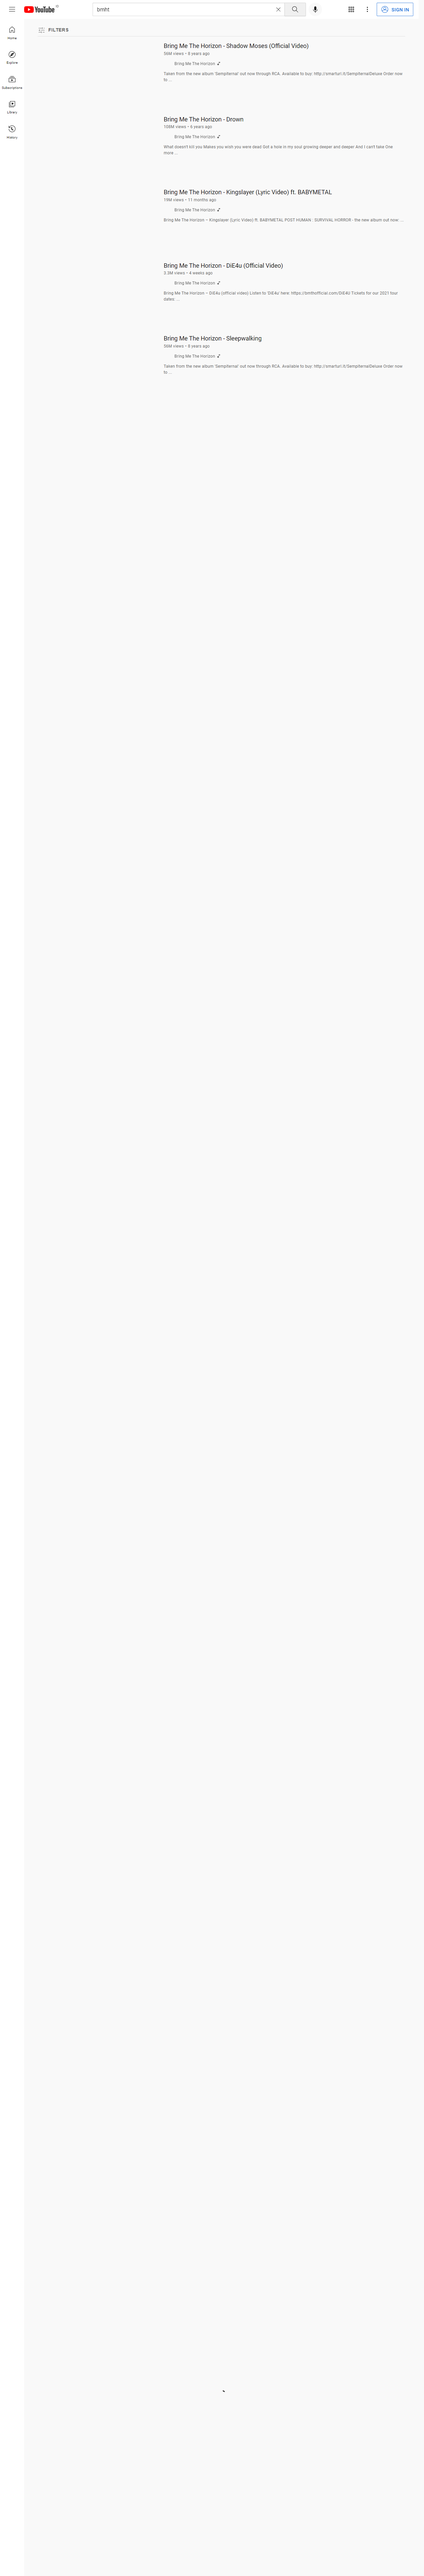
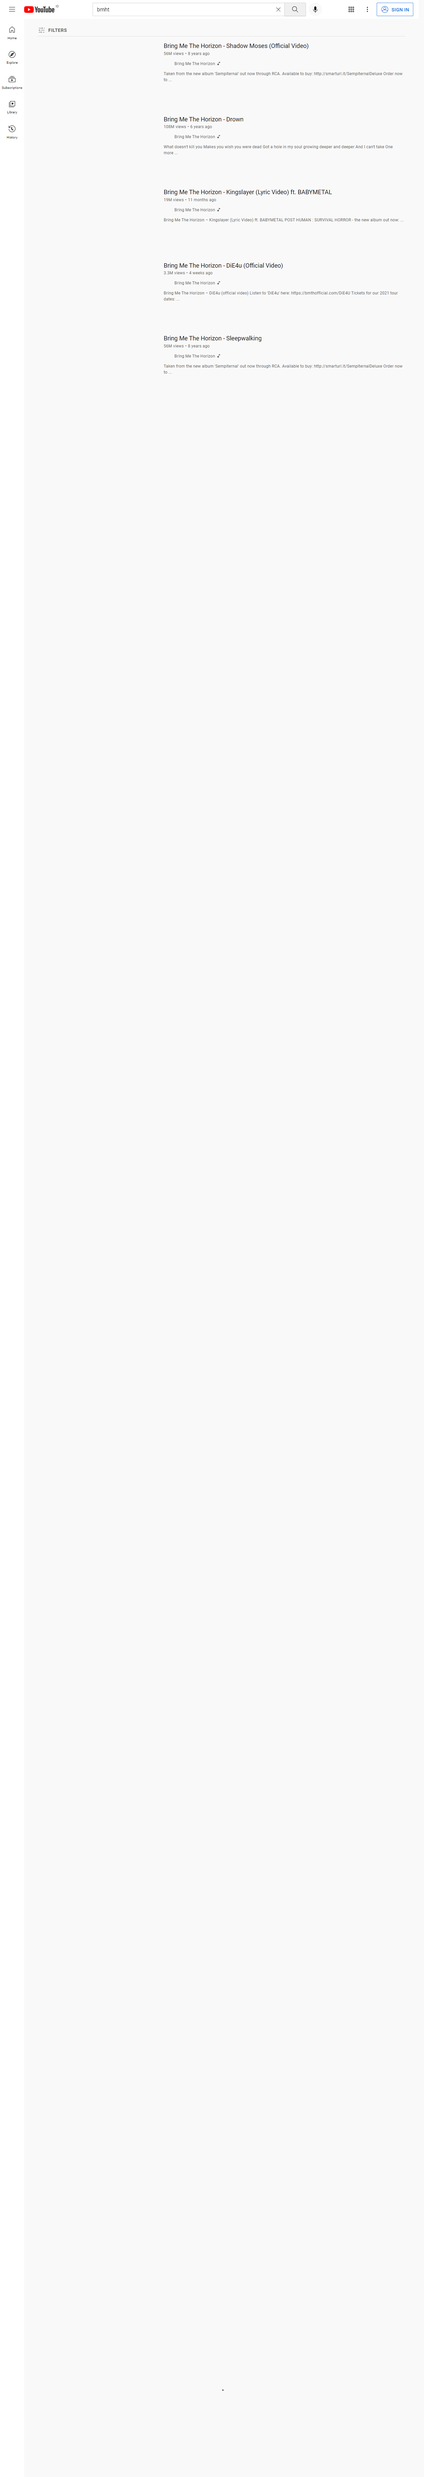
first2

diff --git a/output/record_6b4d718fb44e84b1e045c0cc81fd3459/index.html b/output/record_6b4d718fb44e84b1e045c0cc81fd3459/index.html
@@ -1,0 +1,144 @@
+
+<!DOCTYPE html>
+<html lang="en">
+<head>
+    <meta charset="utf-8">
+    <meta name="viewport" content="width=device-width, initial-scale=1">
+    <title>Recorder Result</title>
+
+    <!-- Bootstrap Core CSS -->
+    <link href="https://maxcdn.bootstrapcdn.com/bootstrap/3.3.5/css/bootstrap.min.css" rel="stylesheet">
+
+    <style>
+        html,
+        body {
+            height: 100%;
+        }
+        .carousel,
+        .item,
+        .active {
+            height: 100%;
+        }
+        .navbar {
+            margin-bottom: 0px !important;
+        }
+        .carousel-caption {
+            background: rgba(0,0,0,0.8);
+            padding-bottom: 50px !important;
+        }
+        .carousel-caption.error {
+            background: #c0392b !important;
+        }
+
+        .carousel-inner {
+            height: 100%;
+        }
+
+        .fill {
+            width: 100%;
+            height: 100%;
+            text-align: center;
+            overflow-y: scroll;
+            background-position: top;
+            -webkit-background-size: cover;
+            -moz-background-size: cover;
+            background-size: cover;
+            -o-background-size: cover;
+        }
+    </style>
+</head>
+<body>
+    <!-- Navigation -->
+    <nav class="navbar navbar-default" role="navigation">
+        <div class="navbar-header">
+            <a class="navbar-brand" href="../records.html">
+                &laquo;
+                googlesearch
+                <small>youtube-search2</small>
+            </a>
+        </div>
+    </nav>
+    <header id="steps" class="carousel slide">
+        <!-- Indicators -->
+        <ol class="carousel-indicators">
+            
+<li data-target="#steps" data-slide-to="0" class="active"></li>
+
+<li data-target="#steps" data-slide-to="1" ></li>
+
+<li data-target="#steps" data-slide-to="2" ></li>
+
+        </ol>
+
+        <!-- Wrapper for Slides -->
+        <div class="carousel-inner">
+            
+<div class="item active">
+    <div class="fill">
+        <img src="0000.png">
+    </div>
+    <div class="carousel-caption ">
+        <h2>I am on page </h2>
+        <small>scroll up and down to see the full page</small>
+    </div>
+</div>
+
+<div class="item ">
+    <div class="fill">
+        <img src="0001.png">
+    </div>
+    <div class="carousel-caption ">
+        <h2>I fill field "Search", "bmht"</h2>
+        <small>scroll up and down to see the full page</small>
+    </div>
+</div>
+
+<div class="item ">
+    <div class="fill">
+        <img src="0002.png">
+    </div>
+    <div class="carousel-caption ">
+        <h2>I click "Search"</h2>
+        <small>scroll up and down to see the full page</small>
+    </div>
+</div>
+
+        </div>
+
+        <!-- Controls -->
+        <a class="left carousel-control" href="#steps" data-slide="prev">
+            <span class="icon-prev"></span>
+        </a>
+        <a class="right carousel-control" href="#steps" data-slide="next">
+            <span class="icon-next"></span>
+        </a>
+
+    </header>
+
+    <!-- jQuery -->
+    <script src="https://cdnjs.cloudflare.com/ajax/libs/jquery/2.1.4/jquery.min.js"></script>
+    <script src="https://maxcdn.bootstrapcdn.com/bootstrap/3.3.5/js/bootstrap.min.js"></script>
+
+    <!-- Script to Activate the Carousel -->
+    <script>
+    $('.carousel').carousel({
+        wrap: true,
+        interval: false
+    })
+
+    $(document).bind('keyup', function(e) {
+      if(e.keyCode==39){
+      jQuery('a.carousel-control.right').trigger('click');
+      }
+
+      else if(e.keyCode==37){
+      jQuery('a.carousel-control.left').trigger('click');
+      }
+
+    });
+
+    </script>
+
+</body>
+
+</html>

diff --git a/output/records.html b/output/records.html
@@ -17,9 +17,10 @@
         </div>
     </nav>
     <div class="container">
-        <h1>Recorded <small>@ Fri Oct 15 2021 22:27:28 GMT+0700 (Western Indonesia Time)</small></h1>
+        <h1>Recorded <small>@ Fri Oct 15 2021 22:51:36 GMT+0700 (Western Indonesia Time)</small></h1>
         <ul>
             <li><a href="record_2eb003252f23445132aa8802d0bbe31c\index.html">googlesearch: youtube-search</a></li>
+<li><a href="record_6b4d718fb44e84b1e045c0cc81fd3459\index.html">googlesearch: youtube-search2</a></li>
 
         </ul>
     </div>

diff --git a/googlesearch_test.js b/googlesearch_test.js
@@ -5,3 +5,8 @@ Scenario('youtube-search', ({ I }) => {
     I.fillField('Search','bmht');
     I.click('Search');
 });
+Scenario('youtube-search2', ({ I }) => {
+    I.amOnPage('');
+    I.fillField('Search','bmht');
+    I.click('Search');
+});
